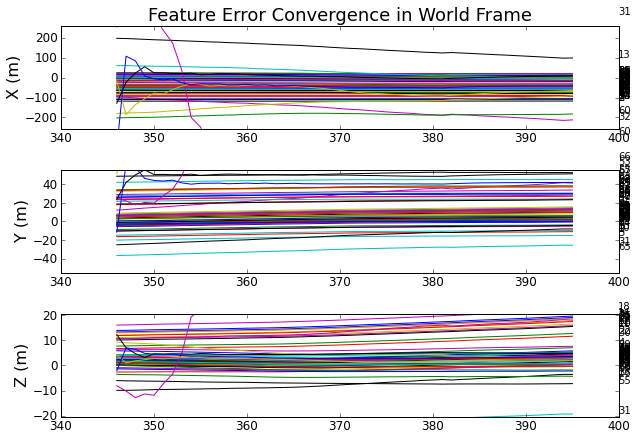
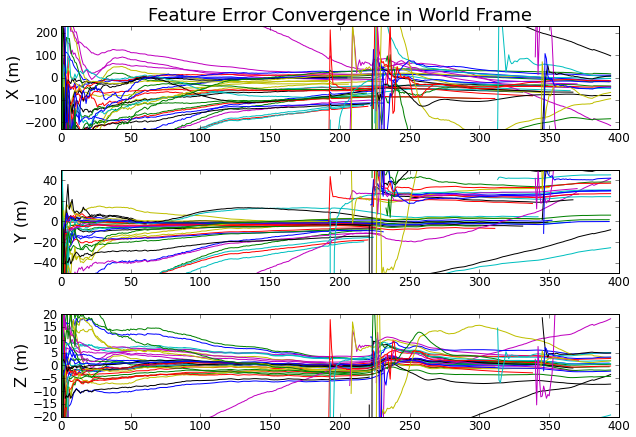
more editing on chapter 5

diff --git a/Thesis/chapter5.tex b/Thesis/chapter5.tex
@@ -133,20 +133,22 @@ rotation.
 \section{Accuracy}
 \subsection{SUAS Localization}
 
-The SUAS location and orientation were verified in UTM coordinate.
-Ground truth data comes from the GPS for position, and magnetometer
-for orientation. The GPS positioning can generally achieve 7.8 meters
-in accuracy \cite{_gps_????}. For orientation, accuracy on the
-datasheet specified $0.1^{\circ}$ for roll and pitch, and
-$0.5^{\circ}$ for heading. Figure \ref{fltfig:6} shows the estimated
-SUAS position and orientation, ground truth data, and the error. From
-the comparison, X position error reached a maximum of 20 meters, while
-error on Y and Z are bigger, reaching 50 meters and 30 meters
-respectively. For orientation, the estimated value agrees with the
-ground truth pattern, with maximum error within 0.02 rad or
-$1.15^{\circ}$. Although the error of pitch is biased to the negative
-side, and error of heading is biased to the positive side. there was
-no clear sign of diverging within the 400 frames processed.
+The SUAS location and orientation were verified in UTM coordinate with
+initial position removed. Ground truth data comes from the GPS for
+position, and magnetometer for orientation. The GPS positioning can
+generally achieve 7.8 meters in accuracy \cite{_gps_????}. For
+orientation, accuracy on the GS-111m datasheet specified $0.1^{\circ}$
+for roll and pitch, and $0.5^{\circ}$ for heading. Figure
+\ref{fltfig:6} shows the estimated SUAS position and orientation,
+ground truth data, and the error. From the comparison, X position
+error reached a maximum of 20 meters, while error on Y and Z are
+bigger, reaching 50 meters and 30 meters respectively. The position
+error increases as the frame number grew bigger. For orientation, the
+estimated value agrees with the ground truth pattern, with maximum
+error within 0.02 rad or $1.15^{\circ}$. Although the error of pitch
+is biased to the negative side, and error of heading is biased to the
+positive side, there was no clear sign of diverging within the 400
+frames processed.
 
 \begin{figure}[h]
 \centering
@@ -158,87 +160,79 @@ no clear sign of diverging within the 400 frames processed.
 \FloatBarrier
 \subsection{Features Mapping}\label{sec:accuracy_features}
 
-Although digital terrain map (DEM) can be downloaded from CGIAR-CSI
-website \cite{_cgiar-csi_????}, making data correspondence with the
-estimated feature is non-trival for natual scene where it lacks of
-signature landmark sucn as building corners or other man-made objects.
-From the experience of analyzing simulation data (chapter
-\ref{ch:simulation}), the initialized feature deviation and elevation
-angle $\phi$ and $\theta$ agrees very well to the ground truth value.
-In addition, feature initialization position is set to $[0, 0, 0]$ in
-camera frame, therefore carris no error. Therefore, the following
-procedure are used the find the corresponding ground truth location
-for any estimated feature.
+The ground truth data came from digital terrain map (DEM) can be
+downloaded from CGIAR-CSI website \cite{_cgiar-csi_????}. Making data
+correspondence with the estimated feature is non-trivial for natural
+scene where it lacks of distinguishable landmark such as building corners or
+other man-made objects. From the experience of analyzing simulation
+data (chapter \ref{ch:simulation}), the initialized feature deviation
+and elevation angle $\phi$ and $\theta$ agrees very well to the ground
+truth value. In addition, feature initialization position is set to
+$[0, 0, 0]$ in camera frame, therefore carries no error. Therefore, the
+following procedure are used the find the corresponding ground truth
+location for any estimated feature.
 
 \begin{enumerate}
   \item The frame number at which feature was initialized was
-  identified, and ground truth location of the SUAS at that frame was
-  recorded.
-  \item Shift DEM to the initialization point using the SUAS ground
-  truth location recorded
-  \item Align the feature deviation $\theta$ and elevation $\phi$ angle to UTM frame.
-  (These angles were recorded in camera frame)
+  identified, and ground truth position and orientation of the SUAS at
+  that frame was recorded.
+  \item Create a reference frame on DEM at the feature initialization point.
+  \item Convert the feature deviation $\theta$ and elevation $\phi$
+  angle to UTM frame. (These angles were recorded in camera frame)
   \item Create a vertical plane using $\theta$ and slice the DEM to
-  form a 1D elevation plot (Figure \ref{fltfig:7} blue line)
+  form a 1D elevation plot (Example: figure \ref{fltfig:7} blue line)
   \item Create a line using $\phi$ and intersect the 1D elevation plot
-  (Figure \ref{fltfig:7} green line). The $1^{st}$ intersection point
-  is used as ground truth feature location.
+  (Figure \ref{fltfig:7} green line). 
+  \item The $1^{st}$ intersection point is used as ground truth
+  feature location.
 \end{enumerate}
 
 \begin{figure}[h]
 \centering
 \includegraphics[width=12cm, keepaspectratio=true]
 {./Figures/fltfig/cut1/intersect0_0.png}
-\caption{Feature position error}
+\caption{Finding ground truth feature position on DEM}
 \label{fltfig:7}
 \end{figure}
 
-By comparing to the ground truth feature location extracted using the
-method describe above, figure \ref{fltfig:8} shows the feature
-position error convergence plot in world frame. Feature locations are
-compared in world frame for the ease of corresponding the estimated
-features and terrain plot with the video by eye. The error convergence
-is plotted in figure \ref{fltfig:8} top left. X component (along which
-axis the SUAS is traveling) of feature position converge to near zero
+Feature locations are compared in world frame for the ease of
+corresponding the estimated features the video by eye. The error
+convergence is plotted in figure \ref{fltfig:8}. X component (along
+which axis the SUAS is traveling) of feature position converge to zero
 in general with maximum error less than 120m for the converged
 features. Y component shows a clear offset for features not
 initialized at first frame. This behavior is similar to what's seen in
-the simulation analysis \ref{sec:featureMotion} where offset in features
-position estimates are caused by drift in SUAS localization
+the simulation analysis \ref{sec:featureMotion} where offset in
+features position estimates are caused by drift in SUAS localization
 estimation. In this case, the features position were converted into
-world frame using the estimated SUAS position, while the ground
-truth feature position are found using the ground truth SUAS position,
-which is different than the estimated. Therefore the offset error can
-be seen. Z component does not show such offset, but some features' Z
-component position drift away after new features were added into the
-filter. This drift could be related to the drift in estimates of angle
-$\phi$ (figure \ref{fltfig:2}).
+world frame using the estimated SUAS position, while the ground truth
+feature position are found using the ground truth SUAS position, which
+is different than the estimated. Therefore the offset error can be
+seen. Z component does not show such offset.
 
 \begin{figure}[h]
 \centering
-\includegraphics[width=7cm, keepaspectratio=true]
+\includegraphics[width=10cm, keepaspectratio=true]
 {./Figures/fltfig/cut1/Figure50.png}
-\includegraphics[width=7cm, keepaspectratio=true]
-{./Figures/fltfig/cut1/Figure80.png}
-\caption{Left: , right: }
+\caption{Feature position error convergence}
 \label{fltfig:8}
 \end{figure}
 
-Plotting the actual estimated and ground truth features position
-reveals relation between the error and the feature's position. Figure
-\ref{fltfig:9} bottom plots the feature positions and error at frame
-398. First on X axis, the biggest error occur on feature number 65
-which is initialized pretty late in the sequence, and has not
-converged properly. On Y axis, the position plot also shows feature
-number higher than 40 carries an offset error. In addition, the
-average error is increasing as feature number gets bigger, which
-indicate the further the feature initialization point is from the
-world origin, the bigger this offset error will me. On Z axis, besids
-the feature 65 carries a big error, features with ground truth Z
-position bigger than 25 generally has an error of 15-20 meters. If the
-error are plotted against the ground truth position (figure
-\ref{fltfig:8} right), it can be seen that these features all
-located within 600 meters to the camera. 
+Plotting the estimated and ground truth features position vs feature
+ID reveals more detail on the feature position error. Figure
+\ref{fltfig:9} plots the estimated and ground truth feature positions
+on the left, and error on the right. First for X component, the biggest
+error occur on feature number 65 which is initialized fairly late in
+the sequence, and has not converged properly. On Y axis, the position
+plot also shows feature number higher than 40 carries an offset error.
+In addition, the average error is increasing as feature number gets
+bigger, which indicate the further the feature initialization point is
+from the world origin, the bigger this offset error will me. On Z
+axis, besides the feature 65 carries a big error, features with ground
+truth Z position bigger than 25 generally has an error of 15-20
+meters. If the error are plotted against the ground truth position
+(figure \ref{fltfig:8} right), it can be seen that these features all
+located within 600 meters to the camera.
 
 \begin{figure}[h]
 \centering
